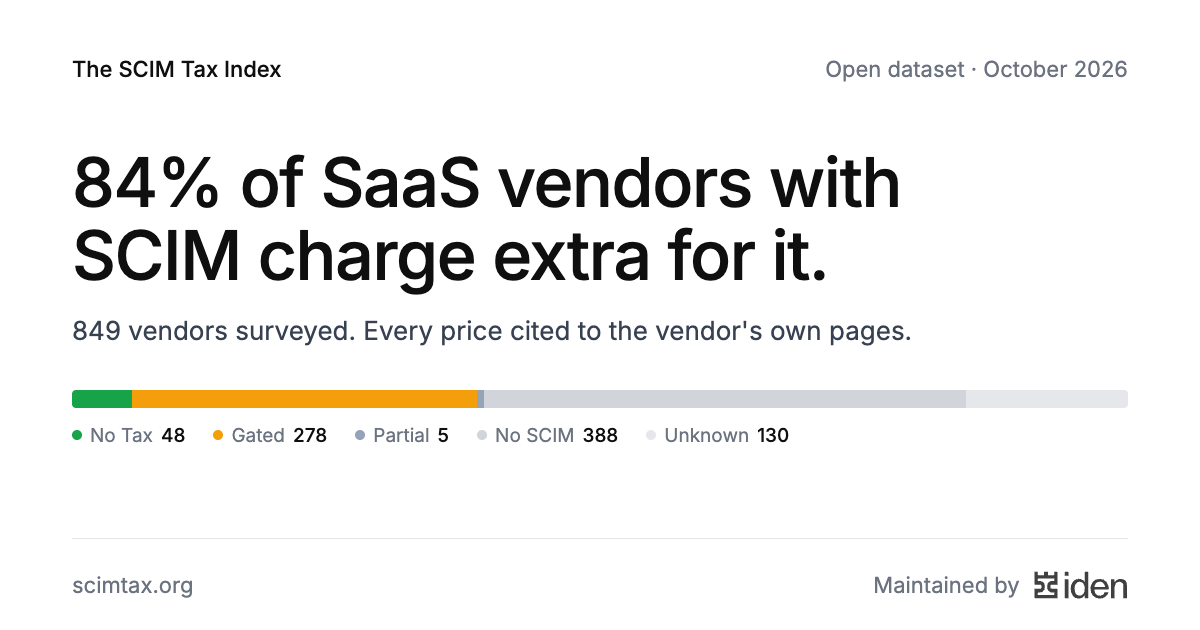
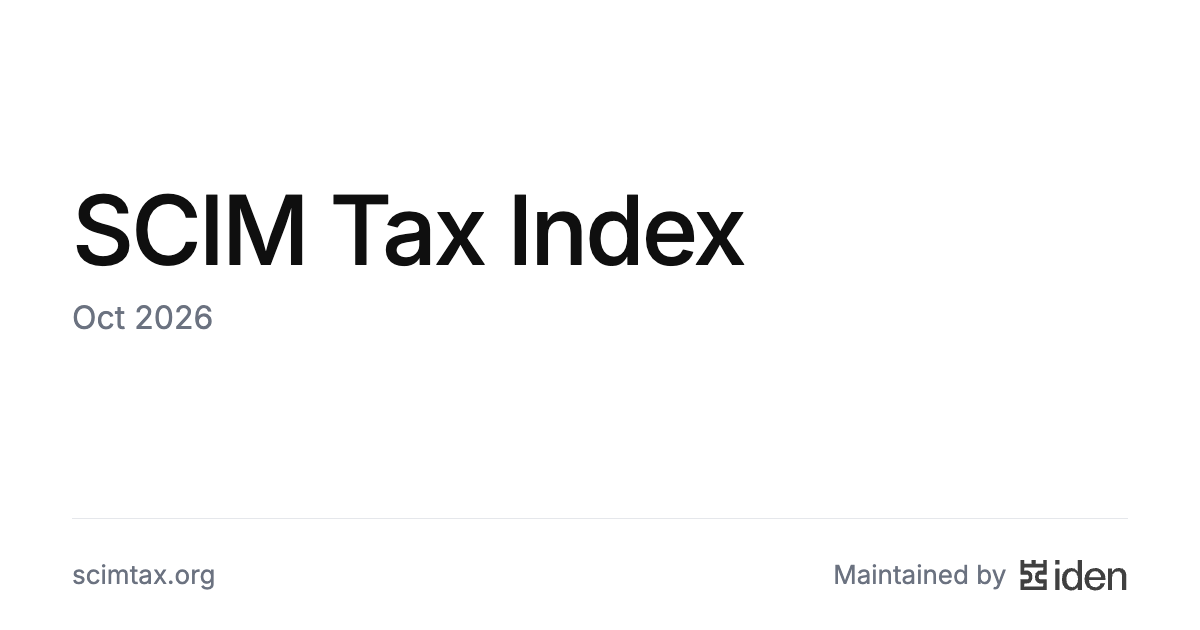
Simpler share-preview image: title, date, scimtax.org, maintained by Iden

diff --git a/index.html b/index.html
@@ -18,7 +18,7 @@
   <meta property="og:image" content="https://scimtax.org/og.png">
   <meta property="og:image:width" content="1200">
   <meta property="og:image:height" content="630">
-  <meta property="og:image:alt" content="The SCIM Tax Index: share of SaaS vendors that charge extra for SCIM, with vendor counts by status. Maintained by Iden.">
+  <meta property="og:image:alt" content="SCIM Tax Index, October 2026. scimtax.org, maintained by Iden.">
   <meta name="twitter:card" content="summary_large_image">
   <meta name="twitter:image" content="https://scimtax.org/og.png">
   <meta name="twitter:title" content="The SCIM Tax Index">

diff --git a/README.md b/README.md
@@ -20,7 +20,7 @@ The result is sometimes called the "SCIM tax": the systematic premium paid acros
 | `data.json` | The dataset, schema v3. Source of truth. CC-BY 4.0. |
 | `data.csv` | The same dataset flattened to CSV. Generated. CC-BY 4.0. |
 | `index.html` | The published site. Generated table, otherwise hand-written. |
-| `og.png` | Share-preview image (1200x630) with the headline numbers. Generated by `tools/make-og.cjs`. |
+| `og.png` | Share-preview image (1200x630): title, date and Iden attribution. Generated by `tools/make-og.cjs`. |
 | `llms.txt` | Plain-text summary of the dataset and who maintains it, for language models and AI search. Generated. |
 | `badge/{slug}.svg` | One embeddable status badge per vendor, plus `badge/index.json`. Generated. |
 | `research/2026-09/` | Schema v3 definition, the merge scripts, and one research file per vendor (`vendors/{slug}.json`) with SCIM and user-API depth and a citation for every fact. |
